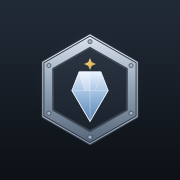
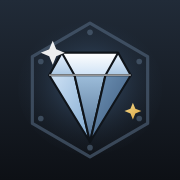
アイコンをダイヤモンド主体に再作成
「アダマス（ἀδάμας）＝ダイヤモンド／鋼」という名前の由来に合わせ、
ブリリアントカットのダイヤを主役にした。従来は鋼の六角プレートが主役で
中の宝石が小さく、48px では何のアイコンか分からなかった。

- ダイヤ（クラウン＋パビリオン）を大きく配置し、背面の六角プレートは
  枠とリベットだけの控えめな表現にして、はがね統一＝工房の由来を残す
- 白とゴールドのきらめきを添えてダイヤらしさを補強
- maskable は中央72%に収めたので、Androidが円形に切り抜いても欠けない
- apple-touch-icon は角丸なし（iOS側でマスクされるため）
- tools/gen-icons で icon.svg から各PNGを再生成できるようにした
- Service Worker のキャッシュ版を v2 に更新。アイコンはハッシュ無しで
  キャッシュ優先のため、上げないと既存ユーザーに新しい絵が届かない

Claude-Session: https://claude.ai/code/session_01QXbJ2tmgfzEtXWTuAZTzGV

Changed region(s): [[0.1667, 0.1111, 0.8333, 0.8889]]

diff --git a/public/sw.js b/public/sw.js
@@ -2,7 +2,9 @@
    - ホーム画面追加（PWAインストール）を有効化するための最小構成。
    - ナビゲーションはネットワーク優先（新デプロイをすぐ反映）、失敗時にキャッシュへフォールバック。
    - ハッシュ付きアセット等はキャッシュ優先（オフライン動作）。 */
-const CACHE = "adamas-koubou-v1";
+// アイコン等のハッシュ無しファイルはキャッシュ優先なので、差し替えたら必ずこの版を上げる
+// （activate で旧キャッシュを削除し、新しいファイルを取り直させる）
+const CACHE = "adamas-koubou-v2";
 
 self.addEventListener("install", () => {
   self.skipWaiting();
